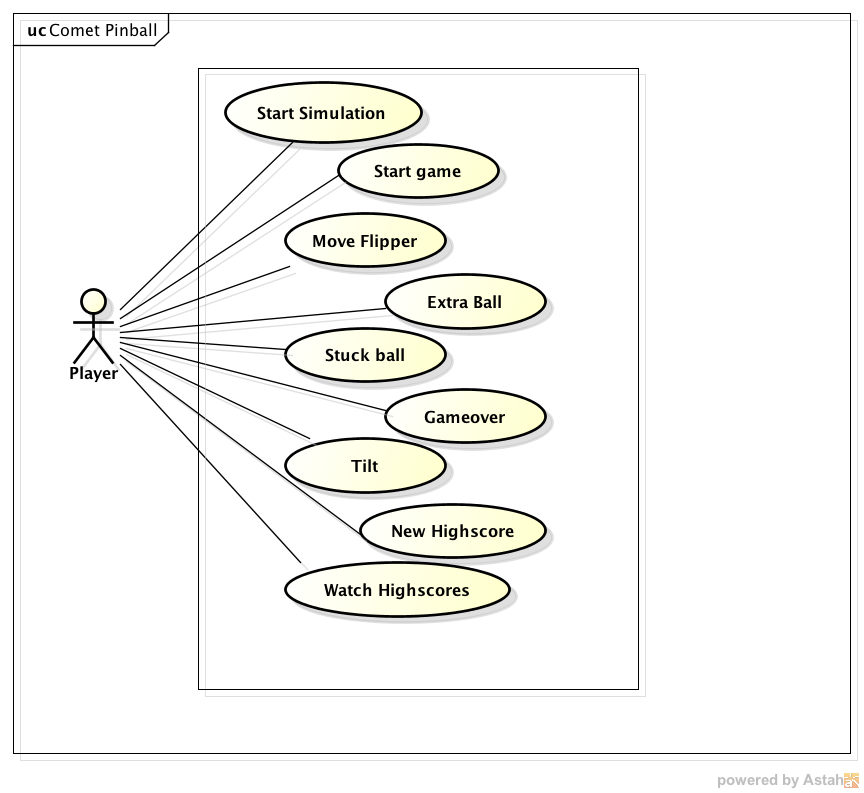
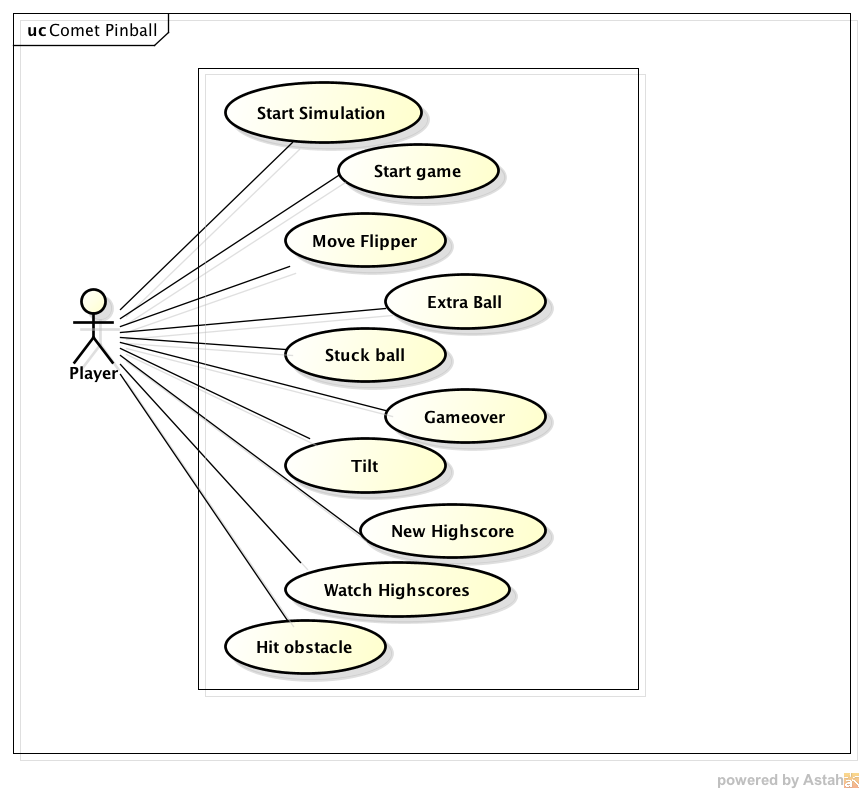
changed use cases

diff --git a/doc/src/supplementary_specification.tex b/doc/src/supplementary_specification.tex
@@ -11,16 +11,17 @@
 
 % Document title for title.tex
 \newcommand{\doctitle}{Supplementary Specification}
-\newcommand{\docrevision}{45}
 \input{./title.tex}
 
 \tableofcontents
 
-%\section{Non-functional requirements}
+\section{Non-functional requirements}
 
 %The non-functional requirements are categorized according to the FURPS+ model, where the functional requirements are left out (see use-case model).
 
 \subsection{Usability}
+
+
 
 %None so far.
 
@@ -31,6 +32,10 @@
 %\end{itemize}
 
 \subsection{Performance}
+
+The application should 
+
+
 
 %\begin{itemize}
 %	\item[P1] The system has to handle a large number of patients. It should support at least 10'000 monitored patients a year.

diff --git a/doc/src/use_case_model.tex b/doc/src/use_case_model.tex
@@ -80,7 +80,7 @@ to do
 
 \item[Gameover:] All balls have left the play field so the game is over. The score is presented to the user and the user has to start a new game to play further.
 
-\item[Obstacle on the play field is hit:] The application actualizes the score If a scoring obstacle  was hit. The ball is following the movement of a collision.
+\item[Hit obstacle:] The application actualizes the score If a scoring obstacle  was hit. The ball is following the movement of a collision.
 
 \item[Stuck ball:] The ball is stuck somewhere on the play field, so the user has the possibility to tilt the table.
 
